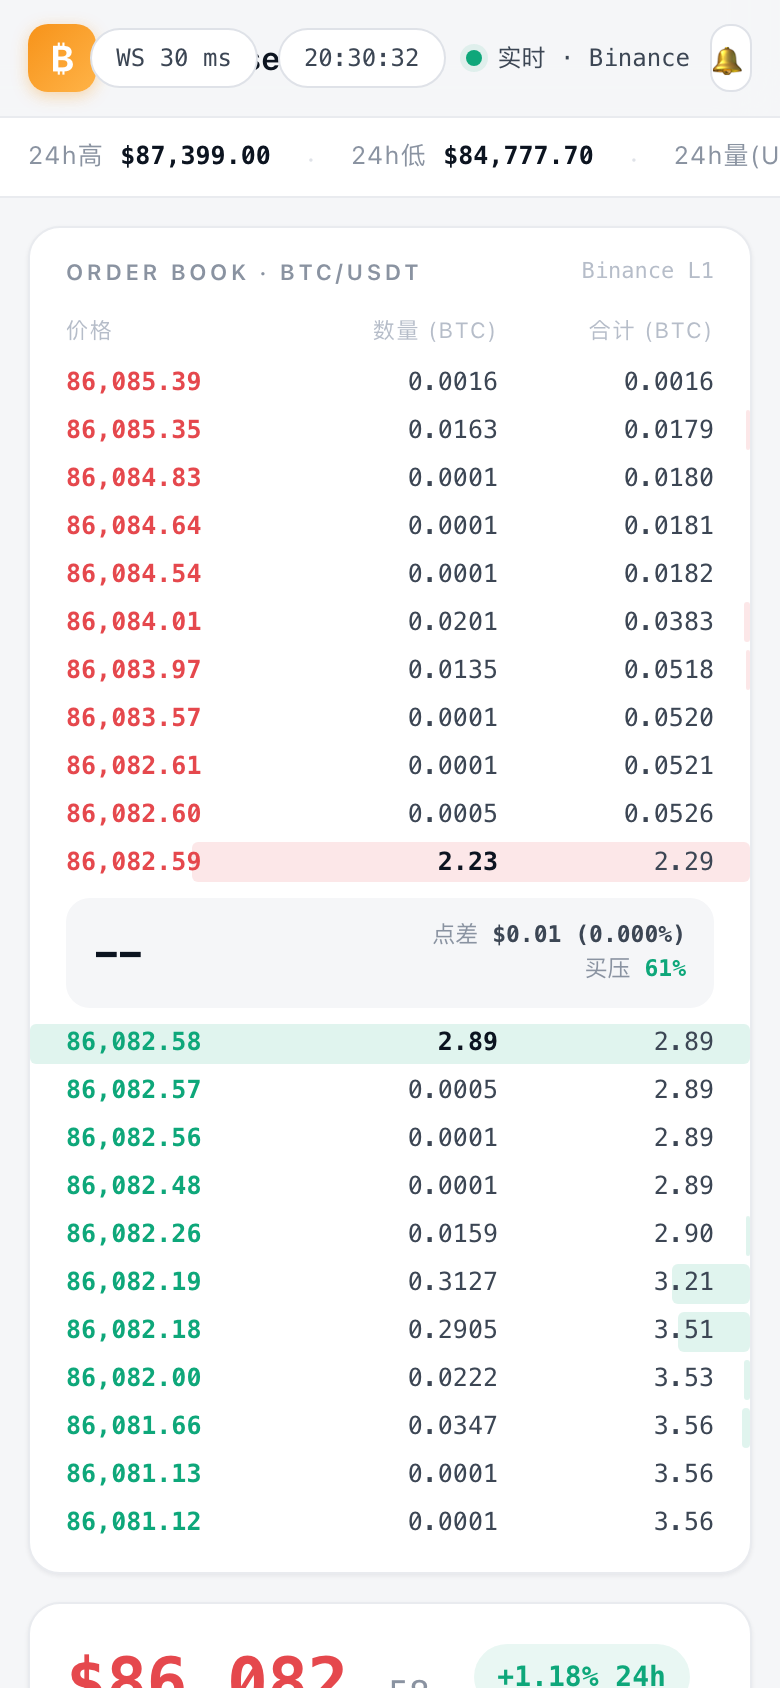
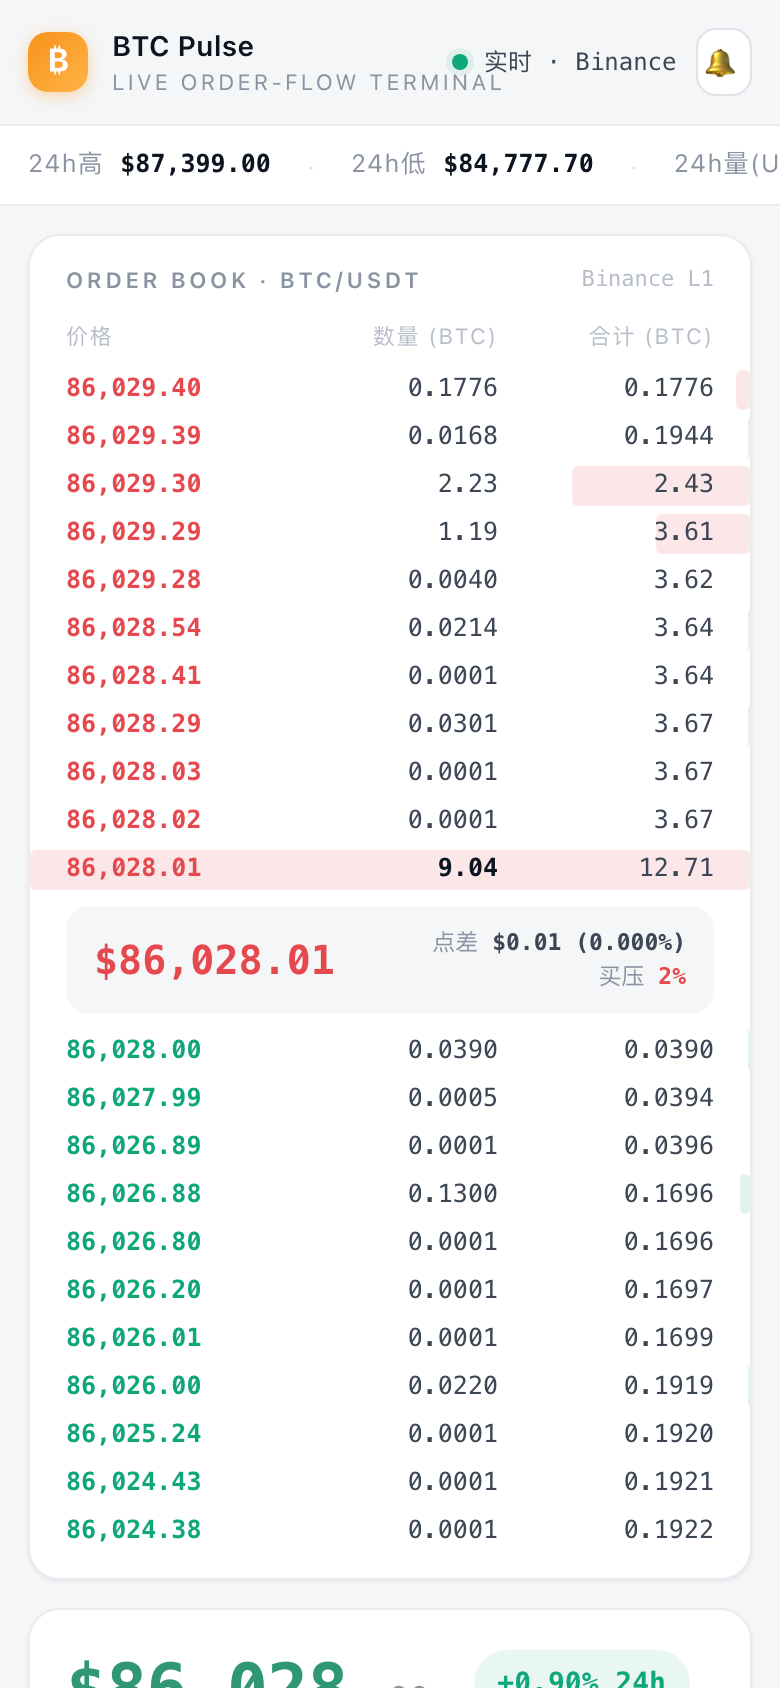
docs: live URLs

diff --git a/README.md b/README.md
@@ -2,7 +2,9 @@
 
 真实行情 · 实时盘口 · 巨鲸警报 · 游戏化观测。像游戏一样有趣，像终端一样专业。
 
-**线上地址**：部署后填写（Cloudflare Workers 默认域 `https://btc-orderflow.<account>.workers.dev`）
+**线上地址**：<https://btc-orderflow.0471666.workers.dev>
+
+**仓库**：<https://github.com/lovexw/btc-orderflow>
 
 ---
 
